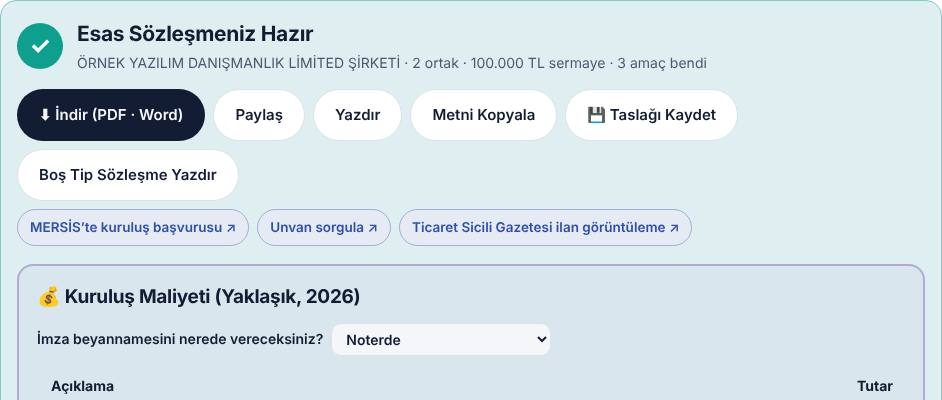
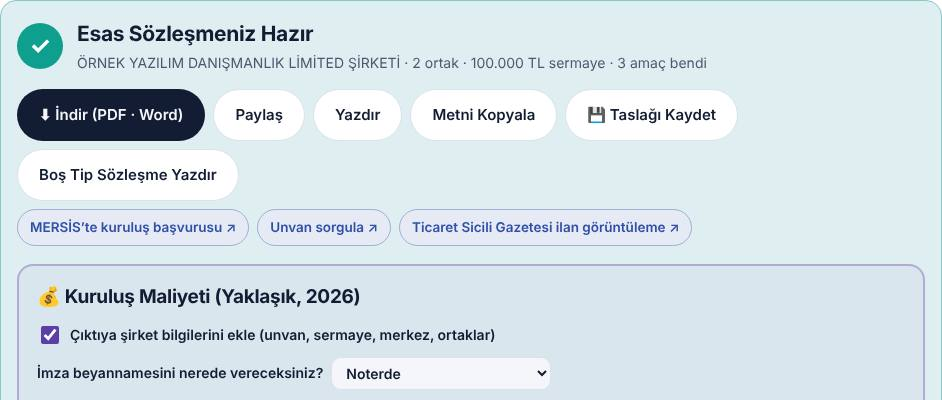
Masraf dökümleri: A4 tek sayfa yazdırma; isteğe bağlı şirket/firma bilgileri çıktıda
Claude-Session: https://claude.ai/code/session_018UFAVAkLcBcEWp4f4jsZc1

Changed region(s): [[0.0308, 0.81, 0.5849, 0.99], [0.8928, 0.96, 0.9544, 0.99]]

diff --git a/site/index.html b/site/index.html
@@ -1201,7 +1201,7 @@ section[data-view],[id^="h-"],[id^="d-"],[id^="x-"],[id^="p-"]{scroll-margin-top
 .bsl[role=button]{cursor:pointer}.bsl[role=button]:hover{filter:brightness(1.08)}
 .es-br{flex-basis:100%;height:0}.es-line>.es-kimf:nth-child(2){flex:0 1 320px!important}
 .es-card{position:relative;margin:16px 0!important;padding:16px 16px 12px!important;border:2px solid #D9D2F0!important;border-left:8px solid #5B3FA8!important;border-radius:16px;background:color-mix(in srgb,#5B3FA8 4%,var(--paper));box-shadow:0 6px 18px -14px rgba(40,20,90,.5)}.es-card.es-c2{border-left-color:#0E9F8E!important;background:color-mix(in srgb,#0E9F8E 5%,var(--paper))}.es-card.es-c2 .es-nol{background:#0E9F8E}.es-nol{width:auto!important;height:auto!important;flex:0 0 100%!important;align-self:flex-start!important;display:inline-flex!important;justify-content:flex-start;background:#5B3FA8;color:#fff;border-radius:8px!important;padding:5px 12px;font-size:13px;font-weight:800;letter-spacing:.08em;max-width:max-content;margin:0 0 4px}
-.es-mas{margin-top:18px;padding:16px 18px;border:2px solid color-mix(in srgb,var(--stamp) 35%,transparent);border-radius:16px;background:color-mix(in srgb,var(--stamp) 4%,transparent)}.es-mh{margin:0 0 10px;font-size:19px}.es-ml{display:flex;flex-wrap:wrap;gap:8px;align-items:center;font-weight:600;margin:0 0 10px;font-size:14px}.es-ml select{padding:6px 10px;border-radius:10px;border:1px solid var(--rule);font:inherit;background:var(--paper,#fff);color:inherit}.es-mas .ss-tb{width:100%}.ek-adr{grid-column:1/-1;border:1px solid var(--rule);border-radius:12px;padding:10px 12px 8px;margin:6px 0 2px;min-width:0}.ek-adr legend{font-weight:700;font-size:13px;padding:0 6px;color:var(--ink-2)}.ek-ag{display:grid;grid-template-columns:repeat(3,minmax(0,1fr));gap:8px 10px;align-items:end}.ek-ag .fb-f{margin:0;min-width:0}.ek-ag .ad-ek{grid-column:1/-1}.ek-ag input,.ek-ag select{width:100%;box-sizing:border-box}.ek-aprev{margin:8px 2px 2px;font-size:13px;color:var(--ink-2)}.ek-aprev b{color:var(--ink)}@media(max-width:620px){.ek-ag{grid-template-columns:repeat(2,minmax(0,1fr))}}.es-eks{margin:14px 0 4px;padding:14px 16px;border:2px solid #E5484D;border-radius:14px;background:color-mix(in srgb,#E5484D 7%,transparent)}.es-eks>b{color:#C93B40;font-size:16px}.es-eks ul{margin:8px 0 6px;padding:0;list-style:none;display:grid;gap:8px}.es-eks li{display:flex;flex-wrap:wrap;align-items:center;justify-content:space-between;gap:8px;font-weight:600}.es-eks small{color:var(--ink-2)}.es-fix{border:0;background:#E5484D;color:#fff;font:inherit;font-weight:800;font-size:13px;border-radius:999px;padding:6px 12px;cursor:pointer}.es-fix:hover{filter:brightness(1.08)}.es-steps [data-st].eks i{background:#E5484D!important;color:#fff!important;position:relative}.es-steps [data-st].eks i::after{content:"!";position:absolute;top:-6px;right:-6px;width:14px;height:14px;border-radius:50%;background:#fff;color:#E5484D;font-size:11px;line-height:14px;text-align:center;font-weight:900;box-shadow:0 0 0 2px #E5484D}.by-fm{margin:10px 0 4px;padding:10px 12px;border-radius:12px;background:color-mix(in srgb,#2F4FA8 6%,var(--paper));border:1px solid color-mix(in srgb,#2F4FA8 25%,var(--rule))}.by-fm>b{display:block;font-size:13px;margin-bottom:6px}.by-fm>div{display:flex;flex-wrap:wrap;gap:6px}.by-fm a{display:inline-flex;align-items:center;gap:6px;padding:6px 10px;border-radius:10px;font-size:13.5px;text-decoration:none;font-weight:600}.by-gib{background:var(--paper);border:1px solid var(--rule);color:var(--ink)}.by-gib i{font-style:normal;font-size:11px;font-weight:700;color:#fff;background:#217346;border-radius:6px;padding:2px 6px}.by-arac{background:#5B3FA8;color:#fff!important}.by-ft td:last-child{white-space:nowrap}
+.es-mas{margin-top:18px;padding:16px 18px;border:2px solid color-mix(in srgb,var(--stamp) 35%,transparent);border-radius:16px;background:color-mix(in srgb,var(--stamp) 4%,transparent)}.es-mh{margin:0 0 10px;font-size:19px}.es-ml{display:flex;flex-wrap:wrap;gap:8px;align-items:center;font-weight:600;margin:0 0 10px;font-size:14px}.es-ml select{padding:6px 10px;border-radius:10px;border:1px solid var(--rule);font:inherit;background:var(--paper,#fff);color:inherit}.es-mas .ss-tb{width:100%}.ek-adr{grid-column:1/-1;border:1px solid var(--rule);border-radius:12px;padding:10px 12px 8px;margin:6px 0 2px;min-width:0}.ek-adr legend{font-weight:700;font-size:13px;padding:0 6px;color:var(--ink-2)}.ek-ag{display:grid;grid-template-columns:repeat(3,minmax(0,1fr));gap:8px 10px;align-items:end}.ek-ag .fb-f{margin:0;min-width:0}.ek-ag .ad-ek{grid-column:1/-1}.ek-ag input,.ek-ag select{width:100%;box-sizing:border-box}.ek-aprev{margin:8px 2px 2px;font-size:13px;color:var(--ink-2)}.ek-aprev b{color:var(--ink)}@media(max-width:620px){.ek-ag{grid-template-columns:repeat(2,minmax(0,1fr))}}.es-eks{margin:14px 0 4px;padding:14px 16px;border:2px solid #E5484D;border-radius:14px;background:color-mix(in srgb,#E5484D 7%,transparent)}.es-eks>b{color:#C93B40;font-size:16px}.es-eks ul{margin:8px 0 6px;padding:0;list-style:none;display:grid;gap:8px}.es-eks li{display:flex;flex-wrap:wrap;align-items:center;justify-content:space-between;gap:8px;font-weight:600}.es-eks small{color:var(--ink-2)}.es-fix{border:0;background:#E5484D;color:#fff;font:inherit;font-weight:800;font-size:13px;border-radius:999px;padding:6px 12px;cursor:pointer}.es-fix:hover{filter:brightness(1.08)}.es-steps [data-st].eks i{background:#E5484D!important;color:#fff!important;position:relative}.es-steps [data-st].eks i::after{content:"!";position:absolute;top:-6px;right:-6px;width:14px;height:14px;border-radius:50%;background:#fff;color:#E5484D;font-size:11px;line-height:14px;text-align:center;font-weight:900;box-shadow:0 0 0 2px #E5484D}@media print{.pr-compact h2{font-size:15pt!important}.pr-compact .es-mh{display:none}.pr-compact .ss-tb td,.pr-compact .ss-tb th{padding:3px 8px!important;font-size:9.5pt!important;line-height:1.3!important}.pr-compact .ss-gh td{padding-top:7px!important;padding-bottom:2px!important}.pr-compact .ss-kb{font-size:9.5pt!important}.pr-compact .ss-top td{padding:5px 8px!important;font-size:11pt!important}.pr-compact p,.pr-compact .pnote{font-size:8.5pt!important;margin:5px 0!important;line-height:1.35!important}.pr-compact ol,.pr-compact ul{margin:4px 0!important}.pr-compact li{font-size:9pt!important}}.ss-fb{display:inline-flex;align-items:center;gap:6px;font-weight:600;font-size:13px;margin-right:4px}.es-mfb{font-weight:600}.es-mfb input,.ss-fb input{width:18px;height:18px;accent-color:var(--stamp)}.by-fm{margin:10px 0 4px;padding:10px 12px;border-radius:12px;background:color-mix(in srgb,#2F4FA8 6%,var(--paper));border:1px solid color-mix(in srgb,#2F4FA8 25%,var(--rule))}.by-fm>b{display:block;font-size:13px;margin-bottom:6px}.by-fm>div{display:flex;flex-wrap:wrap;gap:6px}.by-fm a{display:inline-flex;align-items:center;gap:6px;padding:6px 10px;border-radius:10px;font-size:13.5px;text-decoration:none;font-weight:600}.by-gib{background:var(--paper);border:1px solid var(--rule);color:var(--ink)}.by-gib i{font-style:normal;font-size:11px;font-weight:700;color:#fff;background:#217346;border-radius:6px;padding:2px 6px}.by-arac{background:#5B3FA8;color:#fff!important}.by-ft td:last-child{white-space:nowrap}
 .or-tb td{vertical-align:top;font-size:14px}.or-tb td:first-child{white-space:nowrap}.or-tb th{text-align:left}.or-vg{margin:12px 0 4px;padding:14px 16px;border-radius:14px;background:color-mix(in srgb,#B45309 8%,var(--paper));border:1px solid color-mix(in srgb,#B45309 30%,var(--rule))}.or-vg h4{margin:0 0 8px;font-size:17px}.or-vg ul{margin:0 0 8px 18px;padding:0;font-size:14.5px;line-height:1.55}.or-vg li{margin:0 0 6px}.or-vg a{font-weight:700;font-size:14px}
 .ppl{display:grid;gap:8px}.ppl-r{display:grid;grid-template-columns:minmax(0,1fr) minmax(0,1fr) 36px;gap:6px;align-items:center;padding:8px;border:1px solid var(--rule);border-radius:12px}.ppl-r input[data-c="2"]{grid-column:1/3}.cmb-t{margin:6px 2px 0;font-size:13px;line-height:1.45;color:var(--ink-2)}.ppl-r input,.ppl-r select{width:100%;min-width:0;padding:9px 10px;border:1px solid var(--rule);border-radius:10px;font:inherit;font-size:14px;background:var(--paper);color:var(--ink)}.ppl-x{grid-row:1;grid-column:3;border:1px solid var(--rule);background:transparent;border-radius:9px;height:36px;cursor:pointer;color:var(--ink-2)}.ppl-x:hover{color:#c0392b;border-color:#c0392b}.ppl-add{display:flex;flex-wrap:wrap;gap:6px;margin-top:2px}.cmb-m{margin-top:6px}
 @media (min-width:1001px){#docs .studio{grid-template-columns:minmax(330px,.62fr) minmax(0,1.38fr);gap:20px}#docs .doc-page{padding:36px 38px}}
@@ -3752,9 +3752,9 @@ var DOCSHELL=gshell($('#docs'),DOCS,renderDoc,null);
    +'<label>Karar MERSİS’te e-imzayla mı?<select id="ss-onay"><option value="h"'+(inp.onay!=='e'?' selected':'')+'>Hayır, noter onayı</option><option value="e"'+(inp.onay==='e'?' selected':'')+'>Evet, noter gerekmez</option></select></label></div><div id="ss-out">'+ucretHtml(U)+'</div>'+SSDL;
   h+='<p class="pnote">Tutarlar yaklaşıktır: ticaret sicili harç ve hizmet ücretleri 2026 harç tarifesinden (tüm illerde aynıdır), ilan ücreti kelime başına 5,53 TL, noter tutarları 2026 noterlik ücret tarifesi ve harçlardan (KDV dahil yaklaşık), mali müşavir ücreti İSMMMO 2026 iş yükü esaslı ücret tarifesinden alınmıştır. Kesin tutar başvuruda hesaplanır; ilan ücreti ilan metninin uzunluğuna göre değişir. Pay devrinde noterler sözleşmeyi kendileri düzenlerse ücret yükselir; uygulamada 18.000–32.000 TL arası görülmektedir.</p>';
   h+='<div class="dz-links"><a class="btn-g" href="#sirket">Şirket işlemleri ve İTO belge listeleri →</a><a class="btn-g" href="#belgeler">Belge örnekleri →</a>'+(st.is==='amac'?'<a class="btn-g" href="#amackonu">Amaç ve konu maddesi hazırla →</a>':'')+'</div>';
-  h+='</div></article>';W.innerHTML=h;save();
+  h+='</div></article>';W.innerHTML=h;save();var cbx=document.getElementById('ss-fb');if(cbx&&window.ekProfil&&ekProfil.has())cbx.checked=true;
   ['kel','imz','bed','ser','sm','onay'].forEach(function(x){var e=document.getElementById('ss-'+x);if(e)e.addEventListener(e.tagName==='SELECT'?'change':'input',function(){inp[x]=e.value;document.getElementById('ss-out').innerHTML=ucretHtml(ucret(plan()));});});}
- var LASTU=null,SSDL='<div class="ss-dl" role="group" aria-label="Masraf dökümü"><span>Masraf dökümünü al:</span><button type="button" class="btn btn-ink btn-sm" data-sx="dl">⬇ İndir (PDF · Word · Excel)</button><button type="button" class="btn btn-line btn-sm" data-sx="share">Paylaş</button><button type="button" class="btn btn-line btn-sm" data-sx="print">Yazdır</button><button type="button" class="btn btn-line btn-sm" data-sx="copy">Kopyala</button></div>';
+ var LASTU=null,SSDL='<div class="ss-dl" role="group" aria-label="Masraf dökümü"><label class="ss-fb"><input type="checkbox" id="ss-fb"> Çıktıya firma bilgilerini ekle</label><button type="button" class="btn btn-line btn-sm" data-sx="firma">🏢 Firma Bilgileri</button><span>Masraf dökümünü al:</span><button type="button" class="btn btn-ink btn-sm" data-sx="dl">⬇ İndir (PDF · Word · Excel)</button><button type="button" class="btn btn-line btn-sm" data-sx="share">Paylaş</button><button type="button" class="btn btn-line btn-sm" data-sx="print">Yazdır</button><button type="button" class="btn btn-line btn-sm" data-sx="copy">Kopyala</button></div>';
  function ssTitle(){var h=W.querySelector('.dz-card h4');return 'Masraf dökümü – '+(h?h.textContent.trim():'Şirket işlemi')+' ('+(st.il||'İstanbul')+', 2026)';}
  function ssCtx(){var U=LASTU;if(!U)return null;var G=[],M={};U.R.forEach(function(r){if(!M[r[0]]){M[r[0]]={n:r[0],rows:[],t:0};G.push(M[r[0]]);}M[r[0]].rows.push(r);M[r[0]].t+=r[2]||0;});
    var TT={'Ticaret sicili':U.ts,'Noter':U.nt,'Mali müşavir':U.sm},NM={'Ticaret sicili':'Ticaret Sicili Müdürlüğü','Noter':'Noter','Mali müşavir':'Mali Müşavir'},R=[];
@@ -3762,9 +3762,10 @@ var DOCSHELL=gshell($('#docs'),DOCS,renderDoc,null);
    R.push(['Genel toplam (yaklaşık)',tl(U.top)]);
    var o=W.querySelector('#ss-out'),nt=o&&o.nextElementSibling&&o.nextElementSibling.classList.contains('pnote')?o.nextElementSibling.textContent:'';
    var html='<h2 style="margin:0 0 4px">'+esc2(ssTitle())+'</h2>'+(o?o.innerHTML:'')+(nt?'<p style="font-size:12px;color:#444">'+esc2(nt)+'</p>':'');
-   return {html:html,rows:R};}
+   var FB='',cb=document.getElementById('ss-fb');if(cb&&cb.checked&&window.ekProfil&&window.ekFirmaTb){var f=ekProfil.get().f||{};FB=ekFirmaTb([['Firma',f.unvan],['Adres',f.adres],['Vergi dairesi / VKN',[f.vd,f.vkn].filter(Boolean).join(' / ')],['Yetkili',f.yetkili]]);if(FB){var H=[['Firma bilgileri','','','h']];[['Firma',f.unvan],['Adres',f.adres],['Vergi dairesi / VKN',[f.vd,f.vkn].filter(Boolean).join(' / ')],['Yetkili',f.yetkili]].forEach(function(x){if(x[1])H.push([x[0],x[1]]);});R=H.concat(R);}}
+   return {html:'<div class="pr-compact">'+html.replace('</h2>','</h2>'+FB)+'</div>',rows:R};}
  function ssText(){var c=ssCtx();if(!c)return '';return ssTitle()+'\n'+c.rows.map(function(r){return r[3]==='h'?'\n— '+r[0]+' —':r[0]+': '+r[1];}).join('\n')+'\n— erdalkarahan.com';}
- W.addEventListener('click',function(ev){var b=ev.target.closest('[data-sx]');if(!b)return;var c=ssCtx();if(!c)return;var k=b.dataset.sx,T=ssTitle();
+ W.addEventListener('click',function(ev){var b=ev.target.closest('[data-sx]');if(!b)return;if(b.dataset.sx==='firma'){if(window.ekProfil)ekProfil.open(function(){var c0=document.getElementById('ss-fb');if(c0&&ekProfil.has())c0.checked=true;},true);return;}var c=ssCtx();if(!c)return;var k=b.dataset.sx,T=ssTitle();
    if(k==='dl'&&window.dlMenu)dlMenu(b,T,c);
    if(k==='share'&&window.openShare)openShare(T,ssText(),SITE_URL+'#sirket',c);
    if(k==='print'&&window.printEl){var d=document.createElement('div');d.innerHTML=c.html;printEl(d,T,true);}
@@ -5274,6 +5275,7 @@ window.ekAdrIn=function(el,st){var q=(el.dataset.apath||'').split('|'),obj=q[0]?
  },true);
  document.addEventListener('focusin',function(ev){var el=ev.target;if(want(el)&&!el.hasAttribute('autocapitalize'))el.setAttribute('autocapitalize','words');},true);
 })();
+window.ekFirmaTb=function(rows){rows=rows.filter(function(r){return r[1];});if(!rows.length)return '';return '<table class="pr-firm" style="width:100%;border-collapse:collapse;margin:2px 0 10px;font-size:10pt">'+rows.map(function(r){return '<tr><td style="padding:3px 8px;border:1px solid #ddd;background:#f4f2fb;font-weight:700;width:30%">'+esc(r[0])+'</td><td style="padding:3px 8px;border:1px solid #ddd">'+esc(r[1])+'</td></tr>';}).join('')+'</table>';};
 window.ekUy=function(k){return (k.tip==='yk'||k.tip==='yt')?(k.uy||''):'T.C.';};
 window.ekYabNot=function(K){return K.some(function(k){return k.tip==='yk'||k.tip==='yt';})?'<p class="fb-tip">Yabancı ortak varsa: yabancı kişi için noter onaylı pasaport tercümesi ve Türkiye’den alınmış vergi numarası; yabancı şirket için kendi ülkesindeki faaliyet belgesi ve yetkili kararının apostilli, noter onaylı tercümesi gerekir.</p>':'';};
 document.addEventListener('input',function(ev){var el=ev.target;if(!el.dataset||!el.dataset.kim)return;var n=+el.dataset.kim,v=el.value.replace(/\D/g,'').slice(0,n);if(v!==el.value)el.value=v;},true);
@@ -5435,17 +5437,17 @@ window.ekYuzMsg=function(K){var Y=K.map(function(k){return num(k.yuz);}),any=Y.s
    var T={},top=0;R.forEach(function(r){T[r[0]]=(T[r[0]]||0)+r[2];top+=r[2];});return {R:R,T:T,top:top,S:S,ltd:ltd};}
  function masHtml(){var U=msCalc(),G=[['Ticaret sicili','🏛','ss-k1','Ticaret Sicili ve Oda'],['İmza','✒','ss-k2','İmza Beyannamesi'],['Mali müşavir','🧮','ss-k3','Mali Müşavir']],im=st.msImz||'noter';
    var h='<section class="es-mas" id="es-mas"><h4 class="es-mh">💰 Kuruluş Maliyeti (Yaklaşık, 2026)</h4>'
-    +'<label class="es-ml">İmza beyannamesini nerede vereceksiniz? <select id="es-imz"><option value="noter"'+(im==='noter'?' selected':'')+'>Noterde</option><option value="huzur"'+(im==='huzur'?' selected':'')+'>Ticaret sicilinde (huzurda)</option><option value="mersis"'+(im==='mersis'?' selected':'')+'>MERSİS’te e-imzayla</option></select></label>'
+    +'<label class="es-ml es-mfb"><input type="checkbox" id="es-mfb"'+(st.msFb==='0'?'':' checked')+'> Çıktıya şirket bilgilerini ekle (unvan, sermaye, merkez, ortaklar)</label>'+'<label class="es-ml">İmza beyannamesini nerede vereceksiniz? <select id="es-imz"><option value="noter"'+(im==='noter'?' selected':'')+'>Noterde</option><option value="huzur"'+(im==='huzur'?' selected':'')+'>Ticaret sicilinde (huzurda)</option><option value="mersis"'+(im==='mersis'?' selected':'')+'>MERSİS’te e-imzayla</option></select></label>'
     +'<table class="dz-mini ss-tb ss-tb2"><tr><th>Açıklama</th><th class="r">Tutar</th></tr>'+G.map(function(g){var rows=U.R.filter(function(r){return r[0]===g[0];});return '<tr class="ss-gh '+g[2]+'"><td colspan="2"><span class="ss-kb"><i aria-hidden="true">'+g[1]+'</i>'+e(g[3])+'</span></td></tr>'+rows.map(function(r){return '<tr class="'+g[2]+'"><td>'+e(r[1])+'</td><td class="r">'+tl(r[2])+'</td></tr>';}).join('')+'<tr class="ss-gt '+g[2]+'"><td>'+e(g[3])+' toplamı</td><td class="r">'+tl(U.T[g[0]]||0)+'</td></tr>';}).join('')
     +'<tr class="ss-top"><td><b>Genel toplam (yaklaşık)</b></td><td class="r"><b>'+tl(U.top)+'</b></td></tr></table>'
     +'<p class="pnote">'+(U.ltd?'Limited şirkette sermayenin kuruluşta ödenmesi zorunlu değildir; tescilden itibaren 24 ay içinde ödenebilir.':'Anonim şirkette nakdi sermayenin en az %25’i tescilden önce bankaya yatırılır ('+tl(U.S*.25)+'); bu bir masraf değil, şirketin parasıdır.')+' Tutarlar ticaret sicili 2026 harç ve ilan tarifesi, Rekabet Kurumu payı ve İSMMMO 2026 ücret tarifesine göre yaklaşıktır; oda ücretleri ve ilan kelime sayısı başvuruda kesinleşir. e-İmza, mali mühür, kaşe ve muhasebe defterleri bu hesaba dahil değildir.</p>'
     +'<div class="fb-act"><button type="button" class="btn btn-line" data-ms="dl">⬇ İndir (PDF · Word · Excel)</button><button type="button" class="btn btn-line" data-ms="share">Paylaş</button><button type="button" class="btn btn-line" data-ms="print">Yazdır</button><button type="button" class="btn btn-line" data-ms="copy">Kopyala</button></div></section>';return h;}
  function msTitle(){return 'Şirket Kuruluş Maliyeti · '+(LTD()?'Limited':'Anonim')+' Şirket';}
  function msCtx(){var U=msCalc(),N={'Ticaret sicili':'Ticaret Sicili ve Oda','İmza':'İmza Beyannamesi','Mali müşavir':'Mali Müşavir'},R=[];['Ticaret sicili','İmza','Mali müşavir'].forEach(function(g){R.push([N[g],'','','h']);U.R.filter(function(r){return r[0]===g;}).forEach(function(r){R.push([r[1],tl(r[2])]);});R.push([N[g]+' toplamı',tl(U.T[g]||0)]);});R.push(['Genel toplam (yaklaşık)',tl(U.top)]);
-   var m=document.getElementById('es-mas'),c=m?m.cloneNode(true):null;if(c){[].forEach.call(c.querySelectorAll('.fb-act,.es-ml'),function(x){x.remove();});}
-   return {html:'<h2 style="margin:0 0 4px">'+e(msTitle())+'</h2>'+(c?c.innerHTML:''),rows:R};}
+   var m=document.getElementById('es-mas'),c=m?m.cloneNode(true):null;if(c){[].forEach.call(c.querySelectorAll('.fb-act,.es-ml'),function(x){x.remove();});}var FB='';if(st.msFb!=='0'){var S=sermaye(),yo=yonL().filter(Boolean);FB=ekFirmaTb([['Şirket',(st.unvan?String(st.unvan).toLocaleUpperCase('tr-TR')+' ':'')+(LTD()?'LİMİTED ŞİRKETİ':'ANONİM ŞİRKETİ')+(st.unvan?'':' (unvan henüz belirlenmedi)')],['Sermaye',S?mny(S)+' TL':''],['Merkez',st.adres||''],[LTD()?'Ortaklar':'Pay sahipleri',kurL().map(function(k,i){var t=tutOf(st.kur.indexOf(k));return k.ad+(isFinite(t)&&S?' (%'+NI(Math.round(t/S*10000)/100)+')':'');}).join(', ')],[LTD()?'Müdür(ler)':'Yönetim kurulu',yo.map(function(y){return y.ad;}).join(', ')]]);}
+   if(st.msFb!=='0'){var H=[['Şirket bilgileri','','','h']];var tmp=document.createElement('div');tmp.innerHTML=FB;[].forEach.call(tmp.querySelectorAll('tr'),function(tr){H.push([tr.cells[0].textContent,tr.cells[1].textContent]);});R=H.concat(R);}return {html:'<div class="pr-compact"><h2 style="margin:0 0 4px">'+e(msTitle())+'</h2>'+FB+(c?c.innerHTML:'')+'</div>',rows:R};}
  function msText(){var c=msCtx();return msTitle()+'\n'+c.rows.map(function(r){return r[3]==='h'?'\n— '+r[0]+' —':r[0]+': '+r[1];}).join('\n')+'\n— erdalkarahan.com';}
- document.addEventListener('change',function(ev){if(ev.target&&ev.target.id==='es-imz'){st.msImz=ev.target.value;var m=document.getElementById('es-mas');if(m){var t=document.createElement('div');t.innerHTML=masHtml();m.replaceWith(t.firstChild);}try{save&&save();}catch(_){}}});
+ document.addEventListener('change',function(ev){if(ev.target&&ev.target.id==='es-mfb'){st.msFb=ev.target.checked?'1':'0';try{save();}catch(_){}return;}if(ev.target&&ev.target.id==='es-imz'){st.msImz=ev.target.value;var m=document.getElementById('es-mas');if(m){var t=document.createElement('div');t.innerHTML=masHtml();m.replaceWith(t.firstChild);}try{save&&save();}catch(_){}}});
  document.addEventListener('click',function(ev){var b=ev.target.closest&&ev.target.closest('#es-mas [data-ms]');if(!b)return;var k=b.dataset.ms,T=msTitle(),c=msCtx();
    if(k==='dl'&&window.dlMenu)dlMenu(b,T,c);if(k==='share'&&window.openShare)openShare(T,msText(),SITE_URL+'#amackonu',c);
    if(k==='print'&&window.printEl){var d=document.createElement('div');d.innerHTML=c.html;printEl(d,T,true);}if(k==='copy'&&window.copyText)copyText(msText(),'Maliyet dökümü kopyalandı');});
@@ -5659,7 +5661,7 @@ window.ekYuzMsg=function(K){var Y=K.map(function(k){return num(k.yuz);}),any=Y.s
   gecbeyan:{t:'Beyanname vermeme cezası nasıl hesaplanır?',s:[['ceza','1. Beyannameyi ve tarihleri seçin','Beyanname türünü, son günü ve vereceğiniz günü girin.'],['steps','2. Soruları yanıtlayın','Pişmanlıkla mı veriyorsunuz, tahakkuk ne kadar gibi kısa sorular gelir.'],['bitti','3. Toplamı görün','Vergi, gecikme zammı, usulsüzlük cezası ve SGK idari para cezası tek toplamda gösterilir; birden fazla beyanname ekleyebilirsiniz.']]},
   arackdv:{t:'Araç KDV oranı nasıl bulunur?',s:[['arac','1. Aracı seçin','Binek, kamyonet, iş makinesi gibi aracın türünü seçin.'],['steps','2. Soruları yanıtlayın','İkinci el mi, satıcı galeri mi gibi sorular gelir.'],['bitti','3. Sonuç','KDV oranı, dayanağı, alıcının indirimi ve muhasebe kaydı açılır.']]}
  };
- var SH={esas:['esas-0','esas-0','esas-1','esas-2','esas-2',null,'esas-3','esas-4','esas-6',null],ortaklik:['or-0','or-0','or-1',null,'or-2','or-4',null],sirket:['sk-0','sk-1','sk-2','sk-3',null],gecbeyan:['gb-0','gb-1',null],arackdv:['ak-0','ak-1',null]},VER='202611121037';
+ var SH={esas:['esas-0','esas-0','esas-1','esas-2','esas-2',null,'esas-3','esas-4','esas-6',null],ortaklik:['or-0','or-0','or-1',null,'or-2','or-4',null],sirket:['sk-0','sk-1','sk-2','sk-3',null],gecbeyan:['gb-0','gb-1',null],arackdv:['ak-0','ak-1',null]},VER='202611121043';
  var MAP={sirket:'sirket',amackonu:'esas',ortaklik:'ortaklik',gecbeyan:'gecbeyan',arackdv:'arackdv'};
  function open(key){var h=H[key];if(!h)return;var m=document.getElementById('hlp-modal');if(!m){m=document.createElement('div');m.id='hlp-modal';m.setAttribute('role','dialog');m.setAttribute('aria-modal','true');document.body.appendChild(m);
      m.addEventListener('click',function(e){if(e.target===m||e.target.closest('[data-hx]')){m.hidden=true;document.documentElement.style.overflow='';}});document.addEventListener('keydown',function(e){if(e.key==='Escape'&&!m.hidden){m.hidden=true;document.documentElement.style.overflow='';}});}
